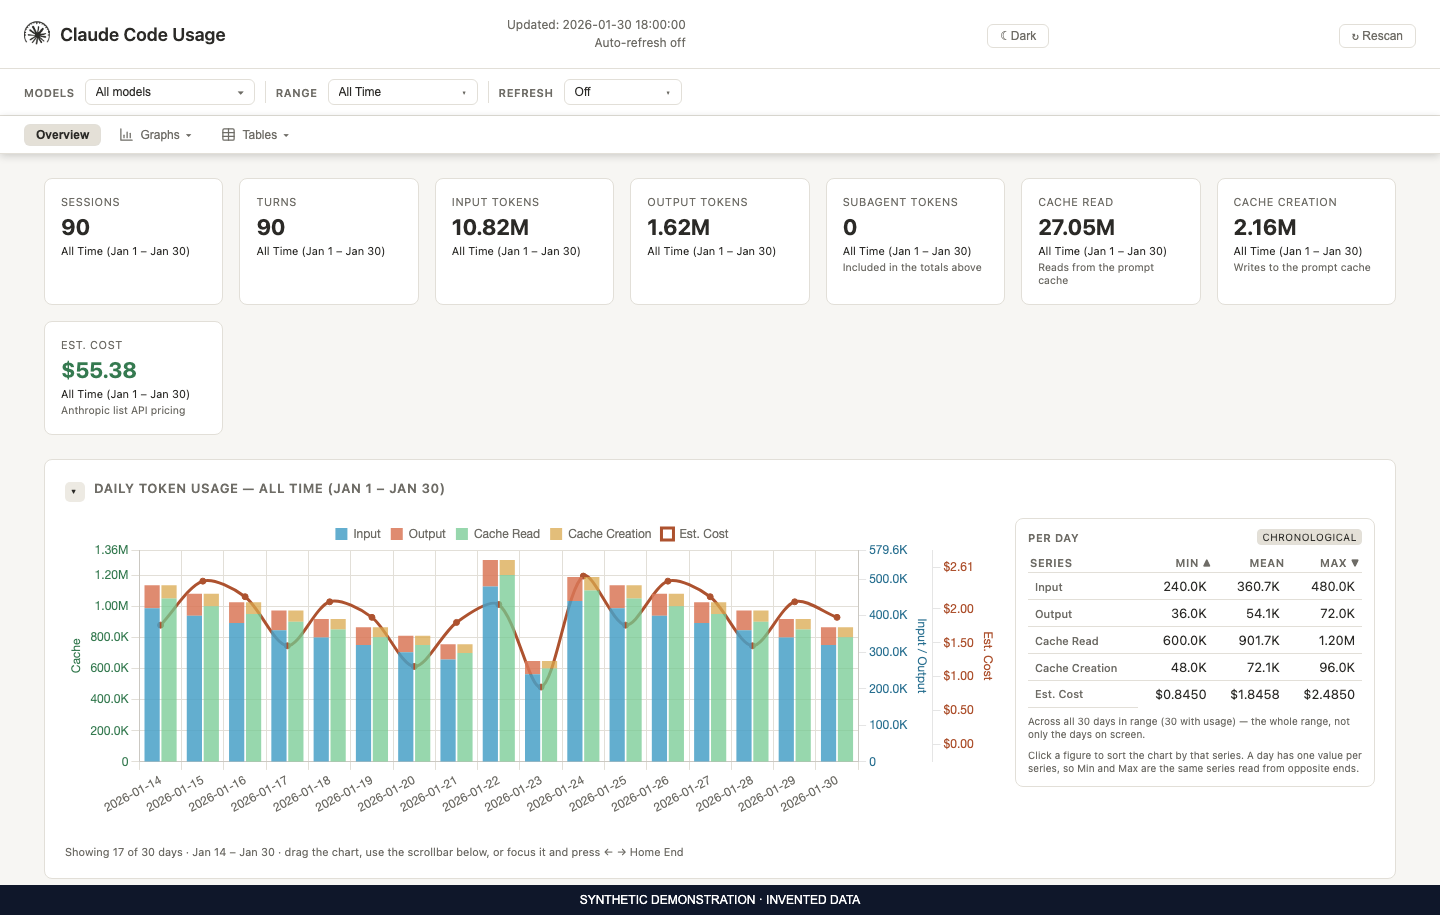
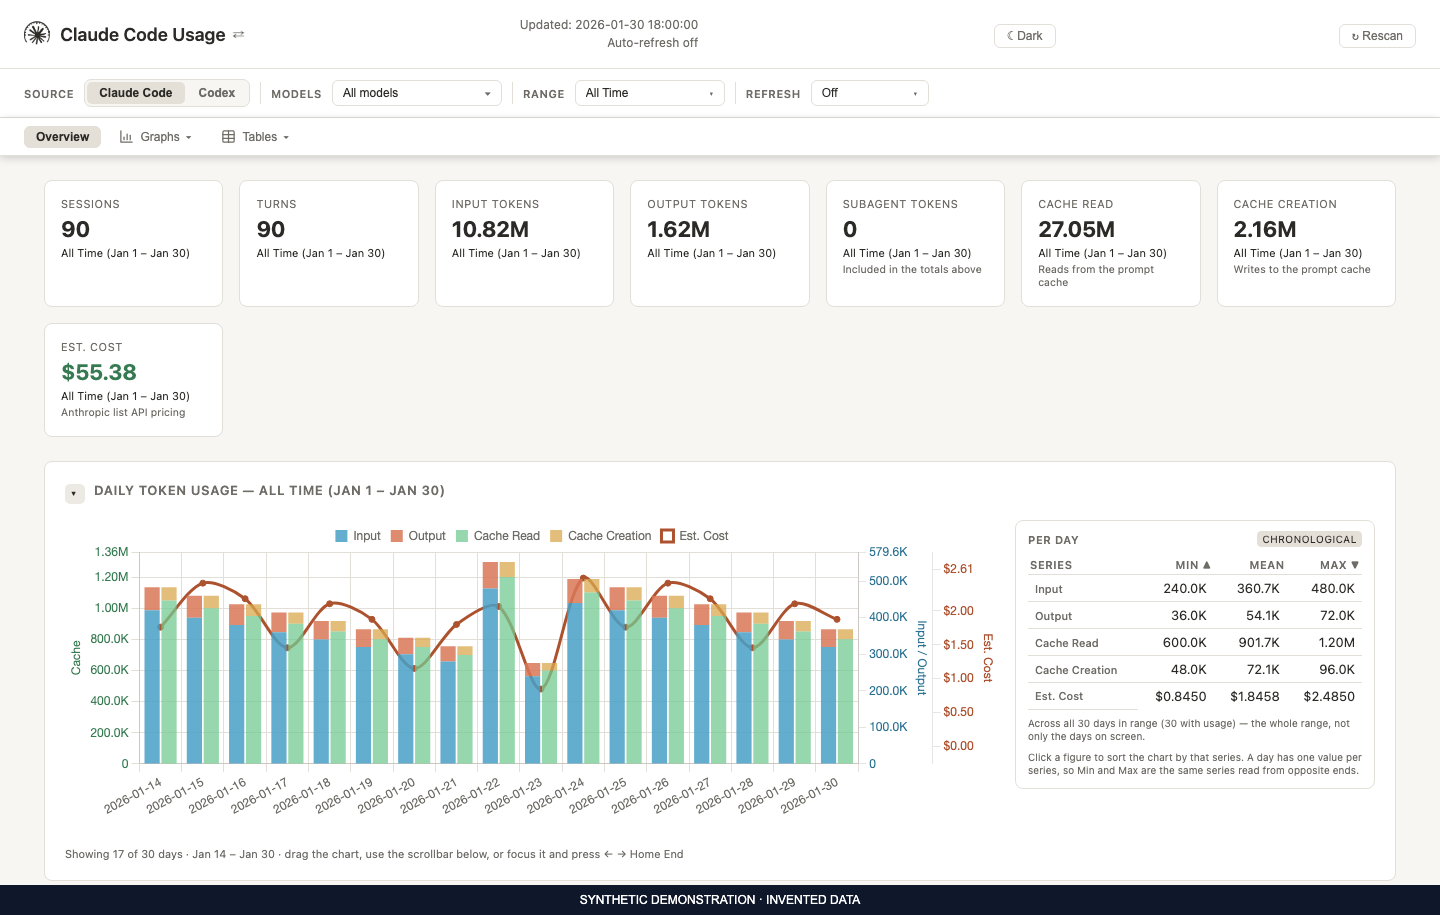
docs: show codex and source selection in dashboard examples

diff --git a/scripts/render-demo.py b/scripts/render-demo.py
@@ -18,13 +18,13 @@ from datetime import date, timedelta
 from http.server import BaseHTTPRequestHandler, ThreadingHTTPServer
 from pathlib import Path
 from unittest.mock import patch
-from urllib.parse import urlsplit
+from urllib.parse import parse_qs, urlsplit
 
 
 ROOT = Path(__file__).resolve().parent.parent
 
 
-def build_payload(directory):
+def build_payloads(directory):
     """Build a fixture database directly; never discover or parse transcripts."""
     for key in tuple(os.environ):
         if key.startswith('CLAUDE_USAGE_'):
@@ -51,44 +51,58 @@ def build_payload(directory):
     database = directory / 'demo.db'
     connection = get_db(database)
     init_db(connection)
-    models = ('claude-opus-5-5', 'claude-sonnet-5-5', 'claude-haiku-4-5-20251001')
+    models_by_source = {
+        'claude': ('claude-opus-5-5', 'claude-sonnet-5-5', 'claude-haiku-4-5-20251001'),
+        'codex': ('gpt-5.5', 'gpt-5.4', 'gpt-5.4-mini'),
+    }
     projects = ('demo/website', 'demo/mobile-app', 'demo/library')
-    for day in range(30):
-        for model_index, model in enumerate(models):
-            stamp = (date(2026, 1, 1) + timedelta(days=day)).isoformat()
-            stamp += f'T{9 + model_index * 3:02}:00:00Z'
-            identity = f'demo-{day}-{model_index}'
-            factor = 1 + (day * 7 + model_index * 3) % 11
-            tokens = {'input_tokens': 20000 * factor,
-                      'output_tokens': 3000 * factor,
-                      'cache_read_tokens': 50000 * factor,
-                      'cache_creation_tokens': 4000 * factor}
-            upsert_sessions(connection, [{
-                'session_id': identity, 'source': 'claude',
-                'project_name': projects[model_index], 'git_branch': 'demo',
-                'topic': 'Synthetic demonstration', 'model': model,
-                'first_timestamp': stamp, 'last_timestamp': stamp,
-                'total_input_tokens': tokens['input_tokens'],
-                'total_output_tokens': tokens['output_tokens'],
-                'total_cache_read': tokens['cache_read_tokens'],
-                'total_cache_creation': tokens['cache_creation_tokens'],
-                'turn_count': 1,
-            }])
-            insert_turns(connection, [{
-                'session_id': identity, 'message_id': identity,
-                'source': 'claude', 'timestamp': stamp, 'model': model,
-                'reasoning_effort': ('medium', 'high', 'max')[model_index],
-                'stop_reason': 'end_turn', 'tool_name': None,
-                'cwd': '/synthetic/demo', **tokens,
-            }])
+    for source, models in models_by_source.items():
+        for day in range(30):
+            for model_index, model in enumerate(models):
+                stamp = (date(2026, 1, 1) + timedelta(days=day)).isoformat()
+                stamp += f'T{9 + model_index * 3:02}:00:00Z'
+                identity = f'demo-{source}-{day}-{model_index}'
+                factor = 1 + (day * 7 + model_index * 3) % 11
+                tokens = {'input_tokens': 20000 * factor,
+                          'output_tokens': 3000 * factor,
+                          'cache_read_tokens': 50000 * factor,
+                          'cache_creation_tokens': 4000 * factor}
+                if source == 'codex':
+                    tokens = {'input_tokens': 12000 * factor,
+                              'output_tokens': 5000 * factor,
+                              'cache_read_tokens': 35000 * factor,
+                              'cache_creation_tokens': 0,
+                              'reasoning_output_tokens': 2000 * factor}
+                upsert_sessions(connection, [{
+                    'session_id': identity, 'source': source,
+                    'project_name': projects[model_index], 'git_branch': 'demo',
+                    'topic': 'Synthetic demonstration', 'model': model,
+                    'first_timestamp': stamp, 'last_timestamp': stamp,
+                    'total_input_tokens': tokens['input_tokens'],
+                    'total_output_tokens': tokens['output_tokens'],
+                    'total_cache_read': tokens['cache_read_tokens'],
+                    'total_cache_creation': tokens['cache_creation_tokens'],
+                    'turn_count': 1,
+                }])
+                insert_turns(connection, [{
+                    'session_id': identity, 'message_id': identity,
+                    'source': source, 'timestamp': stamp, 'model': model,
+                    'reasoning_effort': ('medium', 'high', 'xhigh' if source == 'codex' else 'max')[model_index],
+                    'stop_reason': 'end_turn' if source == 'claude' else '',
+                    'tool_name': None, 'cwd': '/synthetic/demo', **tokens,
+                }])
     connection.commit()
     connection.close()
     # No account cache, saved quotas, thresholds or live credentials are read.
+    payloads = {}
     with patch.object(dashboard_data, 'claude_limits', return_value={}), \
             patch.object(dashboard_data, 'codex_limits_projection', return_value={}):
-        payload = dashboard_data.get_dashboard_data(database, source='claude')
-    payload['generated_at'] = '2026-01-30 18:00:00'
-    return dashboard.HTML_TEMPLATE, json.dumps(payload, default=str).encode('utf-8')
+        for source in models_by_source:
+            payload = dashboard_data.get_dashboard_data(database, source=source)
+            payload['generated_at'] = '2026-01-30 18:00:00'
+            payloads[source] = json.dumps(payload, default=str).encode('utf-8')
+    sources = {'sources': dashboard_data.available_sources(database)}
+    return dashboard.HTML_TEMPLATE, payloads, json.dumps(sources).encode('utf-8')
 
 
 def render(browser, output):
@@ -99,7 +113,7 @@ def render(browser, output):
     output.mkdir(parents=True, exist_ok=True)
     with tempfile.TemporaryDirectory(prefix='claude-usage-demo-') as name:
         temporary = Path(name)
-        page, payload = build_payload(temporary)
+        page, payloads, sources = build_payloads(temporary)
         config = json.dumps({'version': '1.7.0 demo', 'surface': 'web', 'rate_overrides': {}})
         page = page.replace('__APP_CONFIG_JSON__', config).replace('__CSP_NONCE__', 'demo')
         # The fixture contains no subscription or Docker data. Never enable scans.
@@ -108,10 +122,25 @@ def render(browser, output):
             probe = """<script nonce="demo">
             localStorage.setItem('claude-usage-theme', 'light');
             applyTheme('light');
+            const demoSource = '__DEMO_SOURCE__';
             let attempts = 0;
             function settleDemo() {
+              if (++attempts > 200) return;
+              const sourceSwitch = document.getElementById('source-switch');
+              if (!sourceSwitch || sourceSwitch.hidden ||
+                  sourceSwitch.querySelectorAll('[data-source]').length !== 2 ||
+                  !rawData || renderedSource !== selectedSource) {
+                setTimeout(settleDemo, 25);
+                return;
+              }
+              // Use the application's real source button for the Codex capture.
+              if (selectedSource !== demoSource) {
+                sourceSwitch.querySelector('[data-source="' + demoSource + '"]').click();
+                setTimeout(settleDemo, 25);
+                return;
+              }
               if (!document.querySelector('#model-cost-body tr')) {
-                if (++attempts < 200) setTimeout(settleDemo, 25);
+                setTimeout(settleDemo, 25);
                 return;
               }
               document.title = 'Synthetic demonstration';
@@ -119,10 +148,12 @@ def render(browser, output):
               marker.textContent = 'SYNTHETIC DEMONSTRATION · INVENTED DATA';
               marker.style.cssText = 'position:fixed;bottom:0;left:0;right:0;z-index:9999;background:#0f172a;color:#fff;text-align:center;padding:8px;font:12px sans-serif';
               document.body.appendChild(marker);
+              document.documentElement.setAttribute('data-demo-source', demoSource);
               document.documentElement.setAttribute('data-demo-ready', 'true');
             }
             setTimeout(settleDemo, 100);
             </script>"""
+            probe = probe.replace('__DEMO_SOURCE__', 'codex' if view == 'tables' else 'claude')
             # Focus the documentation on existing rendered cards without scroll
             # timing or modifying their values. The source UI stays unchanged.
             focus = 'footer {display:none!important}'
@@ -134,13 +165,15 @@ def render(browser, output):
             pages['/' + view] = focused.replace('</body>', probe + '</body>').encode('utf-8')
         chart = (ROOT / 'vendor/chart.umd.js').read_bytes()
         requested = set()
+        requested_sources = set()
 
         class Handler(BaseHTTPRequestHandler):
             def log_message(self, *_args):
                 pass
 
             def do_GET(self):
-                path = urlsplit(self.path).path
+                url = urlsplit(self.path)
+                path = url.path
                 requested.add(path)
                 if path in pages:
                     body, kind = pages[path], 'text/html; charset=utf-8'
@@ -149,9 +182,14 @@ def render(browser, output):
                 elif path == '/icon.svg':
                     body, kind = (ROOT / 'web/icon.svg').read_bytes(), 'image/svg+xml'
                 elif path == '/api/data':
-                    body, kind = payload, 'application/json'
+                    source = parse_qs(url.query).get('source', ['claude'])[0]
+                    if source not in payloads:
+                        self.send_error(400)
+                        return
+                    requested_sources.add(source)
+                    body, kind = payloads[source], 'application/json'
                 elif path == '/api/sources':
-                    body, kind = b'[{"source":"claude","turns":90}]', 'application/json'
+                    body, kind = sources, 'application/json'
                 elif path == '/api/scan-status':
                     body, kind = b'{"state":"idle","generation":0}', 'application/json'
                 elif path == '/api/limits':
@@ -197,7 +235,8 @@ def render(browser, output):
             server.server_close()
             worker.join()
         assert '/api/data' in requested
-        print('Rendered 90 invented sessions; no transcripts or account caches were read.')
+        assert requested_sources == set(payloads)
+        print('Rendered 90 invented sessions per assistant; no transcripts or account caches were read.')
 
 
 if __name__ == '__main__':

diff --git a/tests/test_publication_hygiene.py b/tests/test_publication_hygiene.py
@@ -55,16 +55,26 @@ class TestPublicationHygiene(unittest.TestCase):
                             raise AssertionError('demo accessed an inherited data path')
             sys.addaudithook(refuse_private_paths)
             demo = runpy.run_path(str(root / 'scripts/render-demo.py'))
-            _, data = demo['build_payload'](directory)
-            payload = json.loads(data)
-            sessions = payload['sessions_all']
+            _, payloads, sources = demo['build_payloads'](directory)
+            summaries = {}
+            for source, data in payloads.items():
+                payload = json.loads(data)
+                sessions = payload['sessions_all']
+                summaries[source] = {
+                    'sessions': len(sessions),
+                    'ids': sorted(row['session_id'] for row in sessions),
+                    'sources': sorted({row['source'] for row in sessions}),
+                    'models': payload['all_models'],
+                    'projects': sorted({row['project'] for row in sessions}),
+                    'claude_limits': payload['subscription_limits'],
+                    'codex_limits': payload['codex_limits'],
+                    'generated_at': payload['generated_at'],
+                    'reasoning': sum(row['reasoning'] for row in payload['effort_by_day_model']),
+                    'output': sum(row['output'] for row in payload['effort_by_day_model']),
+                }
             print(json.dumps({
-                'sessions': len(sessions),
-                'ids': sorted(row['session_id'] for row in sessions),
-                'projects': sorted({row['project'] for row in sessions}),
-                'claude_limits': payload['subscription_limits'],
-                'codex_limits': payload['codex_limits'],
-                'generated_at': payload['generated_at'],
+                'payloads': summaries,
+                'source_response': json.loads(sources),
                 'rates_override': os.environ.get('CLAUDE_USAGE_RATES'),
                 'docker': os.environ['CLAUDE_USAGE_DOCKER'],
                 'live_limits': os.environ['CLAUDE_USAGE_LIVE_LIMITS'],
@@ -92,13 +102,29 @@ class TestPublicationHygiene(unittest.TestCase):
             )
         self.assertEqual(0, result.returncode, result.stderr)
         payload = json.loads(result.stdout)
-        self.assertEqual(90, payload['sessions'])
-        self.assertEqual(sorted(f'demo-{day}-{model}' for day in range(30) for model in range(3)),
-                         payload['ids'])
-        self.assertEqual(['demo/library', 'demo/mobile-app', 'demo/website'], payload['projects'])
-        self.assertEqual({}, payload['claude_limits'])
-        self.assertEqual({}, payload['codex_limits'])
-        self.assertEqual('2026-01-30 18:00:00', payload['generated_at'])
+        self.assertEqual({'claude', 'codex'}, set(payload['payloads']))
+        self.assertEqual({'sources'}, set(payload['source_response']))
+        self.assertCountEqual([{'source': 'claude', 'turns': 90},
+                               {'source': 'codex', 'turns': 90}],
+                              payload['source_response']['sources'])
+        for source, data in payload['payloads'].items():
+            with self.subTest(source=source):
+                self.assertEqual(90, data['sessions'])
+                self.assertEqual(sorted(f'demo-{source}-{day}-{model}'
+                                        for day in range(30) for model in range(3)),
+                                 data['ids'])
+                self.assertEqual([source], data['sources'])
+                self.assertTrue(data['models'])
+                prefix = 'claude-' if source == 'claude' else 'gpt-'
+                self.assertTrue(all(model.startswith(prefix) for model in data['models']))
+                self.assertEqual(['demo/library', 'demo/mobile-app', 'demo/website'],
+                                 data['projects'])
+                self.assertEqual({}, data['claude_limits'])
+                self.assertEqual({}, data['codex_limits'])
+                self.assertEqual('2026-01-30 18:00:00', data['generated_at'])
+                self.assertLessEqual(data['reasoning'], data['output'])
+        self.assertEqual(0, payload['payloads']['claude']['reasoning'])
+        self.assertGreater(payload['payloads']['codex']['reasoning'], 0)
         self.assertIsNone(payload['rates_override'])
         self.assertEqual('0', payload['docker'])
         self.assertEqual('0', payload['live_limits'])

diff --git a/docs/README.md b/docs/README.md
@@ -15,26 +15,29 @@ See [Privacy](PRIVACY.md) for the data stored locally and the network boundary.
 
 ## Screenshots
 
-Two views of the dashboard using **invented demonstration data**. Click either
-image to open it at full size.
+Claude Code and Codex share one dashboard. When both have local history, the
+**Source → Claude Code / Codex** buttons switch between their separate views.
+Both buttons are visible in the examples below, with a different assistant
+selected in each. All data is **invented**; click an image to open it at full size.
 
-### Usage at a glance
+### Claude Code · usage at a glance
 
 Sessions, tokens, cache usage and an API-equivalent cost estimate, followed by
 the daily usage chart. Use the model and date filters to explore a period.
 
-[![Light dashboard showing usage totals and a daily token chart with synthetic data](https://raw.githubusercontent.com/mlizaso/claude-usage/main/docs/screenshot.png)](https://raw.githubusercontent.com/mlizaso/claude-usage/main/docs/screenshot.png)
+[![Claude Code selected beside the Codex source button, with synthetic usage totals and a daily token chart](https://raw.githubusercontent.com/mlizaso/claude-usage/main/docs/screenshot.png)](https://raw.githubusercontent.com/mlizaso/claude-usage/main/docs/screenshot.png)
 
-### Cost breakdown
+### Codex · costs and reasoning tokens
 
-Compare input, output and cache costs by model and reasoning effort. These
-figures are estimates from the bundled rate tables, not an account bill.
+Select **Codex** to see its GPT models, token counts, cache usage and reasoning
+breakdown. The capture below shows Codex selected while Claude Code remains
+available alongside it. Costs are estimates from the bundled rate tables, not
+an account bill; reasoning tokens are already included in output tokens.
 
-[![Dashboard showing token counts and estimated costs by model and reasoning effort with synthetic data](https://raw.githubusercontent.com/mlizaso/claude-usage/main/docs/usage2.png)](https://raw.githubusercontent.com/mlizaso/claude-usage/main/docs/usage2.png)
+[![Codex selected beside the Claude Code source button, with synthetic GPT model costs and reasoning-token counts](https://raw.githubusercontent.com/mlizaso/claude-usage/main/docs/usage2.png)](https://raw.githubusercontent.com/mlizaso/claude-usage/main/docs/usage2.png)
 
 **What you can see:** usage totals, charts and metadata such as project names,
-branches and session titles. These examples show Claude Code; Codex has its own
-source view.
+branches and session titles, scoped to the selected assistant.
 
 **What you cannot see:** full prompts, responses or source-code contents in the
 dashboard. It is not a conversation viewer, a billing statement or an account-wide
@@ -49,8 +52,10 @@ Real screenshots can reveal private work through their metadata; see
 <summary>Regenerate the screenshots safely</summary>
 
 The fixtures and capture process are preserved in `scripts/render-demo.py`.
-It inserts 90 invented sessions into a temporary database, blocks real usage
-paths, and renders the page with a fresh browser profile in UTC. To regenerate:
+It inserts 90 invented sessions per assistant into a temporary database, blocks
+real usage paths, and renders the page with a fresh browser profile in UTC.
+The Codex capture uses the actual source button to switch from Claude Code.
+To regenerate:
 
 ```bash
 python3 scripts/render-demo.py --browser /path/to/chrome-headless-shell
